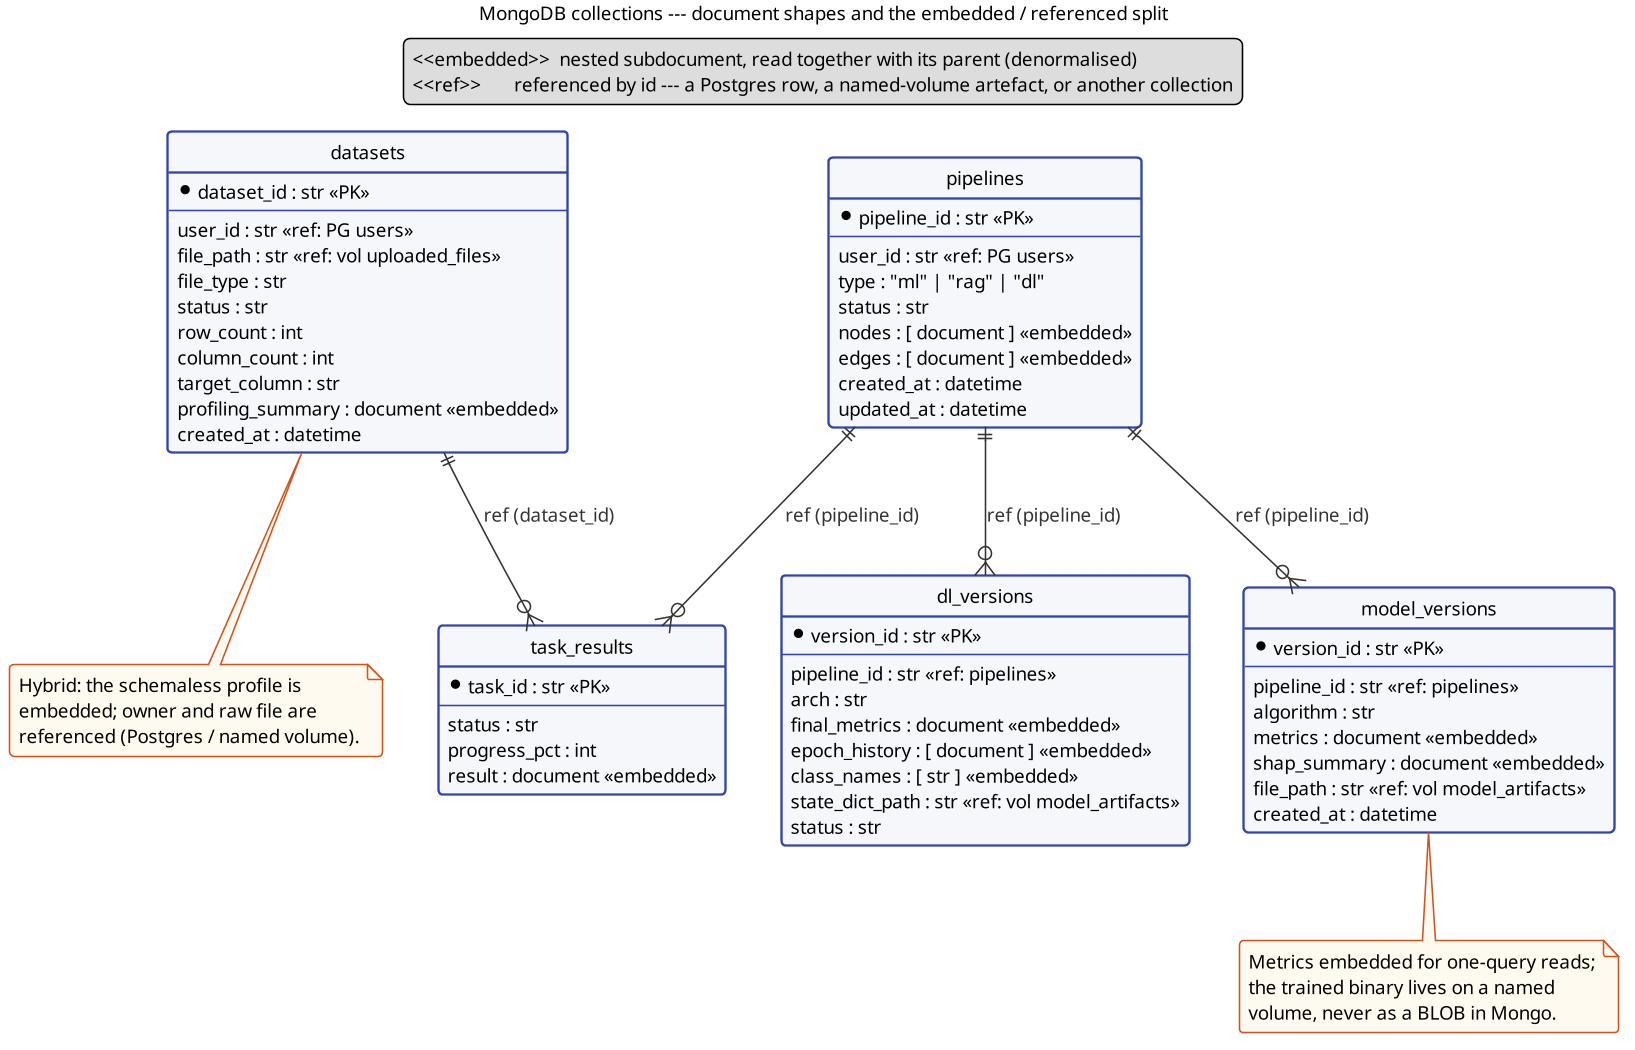
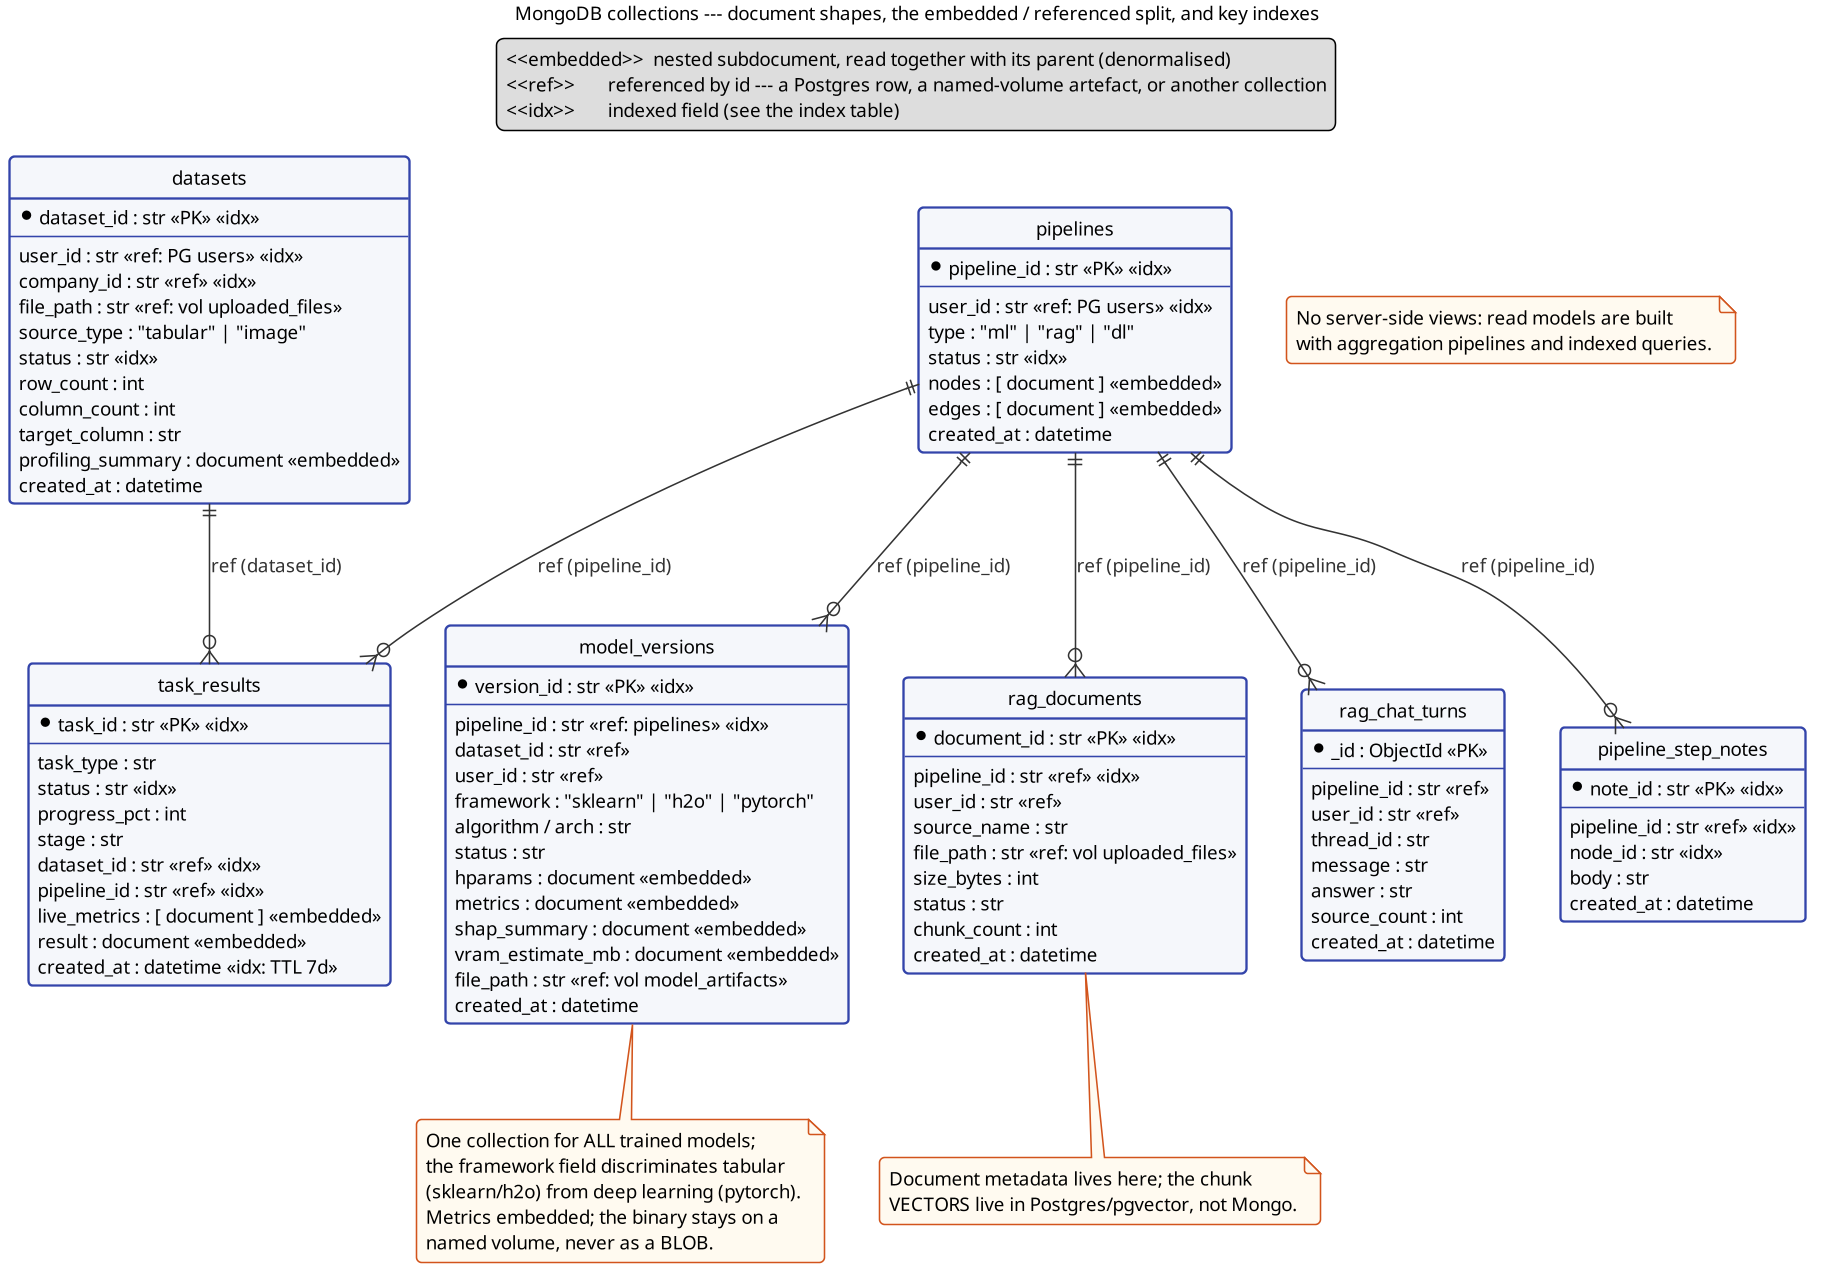
docs(report): stage 3 data depth — Mongo collections diagram (corrected), collections list, index table, data-dictionary annex
- rebuild Mongo diagram: 7 real collections, embedded/ref/idx markers; drop bogus dl_versions (model_versions is unified ML+DL via framework field); note vectors live in pgvector
- list of collections + startup index table in Ch3
- Annex: per-collection data dictionary (dictionnaire de données)

diff --git a/finalReportData.tex b/finalReportData.tex
@@ -1045,8 +1045,9 @@ Table~\ref{tab:mongo_modelling} records the split.
 \texttt{datasets} & \texttt{profiling\_summary} & \texttt{user\_id} $\to$ Postgres \texttt{users}; \texttt{file\_path} $\to$ named volume \\ \hline
 \texttt{pipelines} & \texttt{nodes[]}, \texttt{edges[]} & \texttt{user\_id} $\to$ Postgres \texttt{users} \\ \hline
 \texttt{task\_results} & \texttt{result} & \texttt{dataset\_id} / \texttt{pipeline\_id} \\ \hline
-\texttt{model\_versions} & \texttt{metrics}, \texttt{shap\_summary} & \texttt{pipeline\_id}; \texttt{file\_path} $\to$ named volume \\ \hline
-\texttt{dl\_versions} & \texttt{final\_metrics}, \texttt{epoch\_history[]}, \texttt{class\_names[]} & \texttt{pipeline\_id}; \texttt{state\_dict\_path} $\to$ named volume \\
+\texttt{model\_versions} & \texttt{hparams}, \texttt{metrics}, \texttt{shap\_summary}, \texttt{vram\_estimate} & \texttt{pipeline\_id}, \texttt{dataset\_id}; \texttt{file\_path} $\to$ named volume \\ \hline
+\texttt{rag\_documents} & flat metadata (no nesting) & \texttt{pipeline\_id}; \texttt{file\_path} $\to$ volume; chunk \emph{vectors} $\to$ pgvector \\ \hline
+\texttt{rag\_chat\_turns} & message + answer per turn & \texttt{pipeline\_id}, \texttt{user\_id} \\
 \hline
 \end{tabular}
 \end{table}
@@ -1057,6 +1058,60 @@ never bloats a document because only its \texttt{file\_path} is kept,
 with the binary on a named volume; and user identity is never copied
 into Mongo because it is referenced back to the Postgres \texttt{users}
 table, which stays the single source of truth for auth and ACL.
+
+\subsection{Liste des collections et index}
+
+The document side of the platform uses seven collections in the
+\texttt{nocode\_ingestion} database. Their per-attribute data dictionary
+is given in Annex~\ref{annex:datadict}; Table~\ref{tab:collections}
+lists them with their role, and Table~\ref{tab:mongo_indexes} the
+indexes created at startup (\texttt{infra/mongo/init.js}). MongoDB has
+no server-side views here --- read models are built with aggregation
+pipelines and the indexed queries below.
+
+\begin{table}[H]
+\centering
+\caption{MongoDB collections (database \texttt{nocode\_ingestion}).}
+\label{tab:collections}
+\begin{tabular}{|p{0.24\linewidth}|L{0.68\linewidth}|}
+\hline
+\textbf{Collection} & \textbf{Role} \\
+\hline
+\texttt{datasets} & Uploaded tabular/image datasets and their profiling summary. \\ \hline
+\texttt{pipelines} & The visual canvas: the node/edge graph of each ML/RAG/DL pipeline. \\ \hline
+\texttt{task\_results} & Status, progress and live metrics of asynchronous Celery jobs (auto-expires after 7 days). \\ \hline
+\texttt{model\_versions} & Every trained model version --- tabular and deep learning --- with hyper-parameters, metrics and artefact path. \\ \hline
+\texttt{rag\_documents} & Metadata of documents ingested for RAG (the chunk vectors live in pgvector). \\ \hline
+\texttt{rag\_chat\_turns} & History of RAG chat turns (question, answer, source count) per pipeline. \\ \hline
+\texttt{pipeline\_step\_notes} & Free-text notes attached to a specific canvas node. \\
+\hline
+\end{tabular}
+\end{table}
+
+\begin{table}[H]
+\centering
+\caption{MongoDB indexes created at startup.}
+\label{tab:mongo_indexes}
+\begin{tabular}{|p{0.24\linewidth}|L{0.46\linewidth}|p{0.16\linewidth}|}
+\hline
+\textbf{Collection} & \textbf{Index key} & \textbf{Property} \\
+\hline
+\texttt{datasets} & \texttt{\{dataset\_id\}} & unique \\ \hline
+ & \texttt{\{user\_id, created\_at$\downarrow$\}}, \texttt{\{company\_id, created\_at$\downarrow$\}}, \texttt{\{status\}} & (sparse on company) \\ \hline
+\texttt{pipelines} & \texttt{\{pipeline\_id\}} & unique \\ \hline
+ & \texttt{\{user\_id, created\_at$\downarrow$\}}, \texttt{\{status\}} & \\ \hline
+\texttt{task\_results} & \texttt{\{task\_id\}} & unique \\ \hline
+ & \texttt{\{dataset\_id\}}, \texttt{\{pipeline\_id\}}, \texttt{\{status\}} & \\ \hline
+ & \texttt{\{created\_at\}} & TTL 7 days \\ \hline
+\texttt{model\_versions} & \texttt{\{version\_id\}} & unique \\ \hline
+ & \texttt{\{pipeline\_id, created\_at$\downarrow$\}}, \texttt{\{user\_id, created\_at$\downarrow$\}} & \\ \hline
+\texttt{rag\_documents} & \texttt{\{document\_id\}} & unique \\ \hline
+ & \texttt{\{pipeline\_id, created\_at$\downarrow$\}}, \texttt{\{user\_id, created\_at$\downarrow$\}} & \\ \hline
+\texttt{pipeline\_step\_notes} & \texttt{\{note\_id\}} & unique \\ \hline
+ & \texttt{\{pipeline\_id, node\_id, created\_at\}} & \\
+\hline
+\end{tabular}
+\end{table}
 
 \section*{Conclusion}
 
@@ -3731,5 +3786,95 @@ can be reproduced on any GTX 1660 Super class machine.
         $\sim 97\%$ across five runs in roughly $30$\,seconds on a
         1660 Super.
 \end{enumerate}
+
+\chapter{Dictionnaire de donn\'ees --- collections MongoDB}
+\label{annex:datadict}
+
+Per-attribute data dictionary for the seven MongoDB collections
+(database \texttt{nocode\_ingestion}). Types are the stored BSON types;
+\textit{(E)} marks an embedded subdocument, \textit{(R)} a reference to
+another store. The relational (Postgres) side is documented by the
+schema diagram in Chapter~3.
+
+\begin{longtable}{p{0.26\linewidth} p{0.16\linewidth} L{0.50\linewidth}}
+\textbf{Attribute} & \textbf{Type} & \textbf{Description} \\
+\hline \endhead
+\multicolumn{3}{l}{\textbf{\texttt{datasets}}} \\ \hline
+\texttt{dataset\_id} & string & Unique id (PK). \\
+\texttt{user\_id} & string & Owner (R $\to$ Postgres \texttt{users}). \\
+\texttt{company\_id} & string & Owning workspace, if any (R). \\
+\texttt{file\_path} & string & Path on the \texttt{uploaded\_files} volume (R). \\
+\texttt{source\_type} & string & \texttt{tabular} or \texttt{image}. \\
+\texttt{status} & string & \texttt{uploading} / \texttt{ready} / \texttt{preprocessed}. \\
+\texttt{row\_count} & int & Rows (tabular). \\
+\texttt{column\_count} & int & Columns (tabular). \\
+\texttt{target\_column} & string & Chosen target, if set. \\
+\texttt{profiling\_summary} & document & Full profile: per-column stats + alerts (E). \\
+\texttt{created\_at} & datetime & Creation timestamp. \\
+\hline
+\multicolumn{3}{l}{\textbf{\texttt{pipelines}}} \\ \hline
+\texttt{pipeline\_id} & string & Unique id (PK). \\
+\texttt{user\_id} & string & Owner (R). \\
+\texttt{type} & string & \texttt{ml} / \texttt{rag} / \texttt{dl}. \\
+\texttt{status} & string & \texttt{draft} / \texttt{running} / \texttt{done} / \texttt{error}. \\
+\texttt{nodes} & array & Canvas nodes, each a subdocument (E). \\
+\texttt{edges} & array & Canvas edges (E). \\
+\texttt{created\_at} / \texttt{updated\_at} & datetime & Timestamps. \\
+\hline
+\multicolumn{3}{l}{\textbf{\texttt{task\_results}}} \\ \hline
+\texttt{task\_id} & string & Celery task id (PK). \\
+\texttt{task\_type} & string & \texttt{profiling} / \texttt{preprocessing} / \texttt{rag\_ingest} / \texttt{training} / \texttt{dl\_training}. \\
+\texttt{status} & string & \texttt{running} / \texttt{success} / \texttt{failure}. \\
+\texttt{progress\_pct} & int & Progress 0--100. \\
+\texttt{stage} & string & Current stage label. \\
+\texttt{dataset\_id} / \texttt{pipeline\_id} & string & Subject of the task (R). \\
+\texttt{live\_metrics} & array & Streamed per-step metric points (E). \\
+\texttt{result} & document & Final result payload (E). \\
+\texttt{created\_at} & datetime & Indexed; document auto-expires after 7 days. \\
+\hline
+\multicolumn{3}{l}{\textbf{\texttt{model\_versions}}} \\ \hline
+\texttt{version\_id} & string & Unique id (PK). \\
+\texttt{pipeline\_id} & string & Source pipeline (R). \\
+\texttt{dataset\_id} & string & Training dataset (R). \\
+\texttt{user\_id} & string & Owner (R). \\
+\texttt{framework} & string & \texttt{sklearn} / \texttt{h2o} / \texttt{pytorch} --- discriminates tabular vs DL. \\
+\texttt{algorithm} / \texttt{arch} & string & Algorithm (tabular) or architecture (DL). \\
+\texttt{status} & string & \texttt{training} / \texttt{ready} / \texttt{failed}. \\
+\texttt{hparams} & document & Hyper-parameters (E). \\
+\texttt{metrics} & document & Final evaluation metrics (E). \\
+\texttt{shap\_summary} & document & SHAP importances, tabular runs (E). \\
+\texttt{vram\_estimate\_mb} & document & VRAM-guard breakdown, DL runs (E). \\
+\texttt{file\_path} & string & Artefact on the \texttt{model\_artifacts} volume (R). \\
+\texttt{created\_at} & datetime & Timestamp. \\
+\hline
+\multicolumn{3}{l}{\textbf{\texttt{rag\_documents}}} \\ \hline
+\texttt{document\_id} & string & Unique id (PK). \\
+\texttt{pipeline\_id} & string & Owning RAG pipeline (R). \\
+\texttt{user\_id} & string & Owner (R). \\
+\texttt{source\_name} & string & Original filename. \\
+\texttt{file\_path} & string & Path on the \texttt{uploaded\_files} volume (R). \\
+\texttt{size\_bytes} & int & File size. \\
+\texttt{status} & string & \texttt{queued} / \texttt{running} / \texttt{ready} / \texttt{failed}. \\
+\texttt{chunk\_count} & int & Chunks produced (vectors stored in pgvector). \\
+\texttt{created\_at} / \texttt{updated\_at} & datetime & Timestamps. \\
+\hline
+\multicolumn{3}{l}{\textbf{\texttt{rag\_chat\_turns}}} \\ \hline
+\texttt{\_id} & ObjectId & Mongo-generated id (PK). \\
+\texttt{pipeline\_id} & string & RAG pipeline (R). \\
+\texttt{user\_id} & string & Asker (R). \\
+\texttt{thread\_id} & string & Conversation thread. \\
+\texttt{message} & string & The user's question. \\
+\texttt{answer} & string & The model's grounded answer. \\
+\texttt{source\_count} & int & Number of source chunks used. \\
+\texttt{created\_at} & datetime & Timestamp. \\
+\hline
+\multicolumn{3}{l}{\textbf{\texttt{pipeline\_step\_notes}}} \\ \hline
+\texttt{note\_id} & string & Unique id (PK). \\
+\texttt{pipeline\_id} & string & Owning pipeline (R). \\
+\texttt{node\_id} & string & Canvas node the note is attached to. \\
+\texttt{body} & string & Free-text note. \\
+\texttt{created\_at} / \texttt{updated\_at} & datetime & Timestamps. \\
+\hline
+\end{longtable}
 
 \end{document}